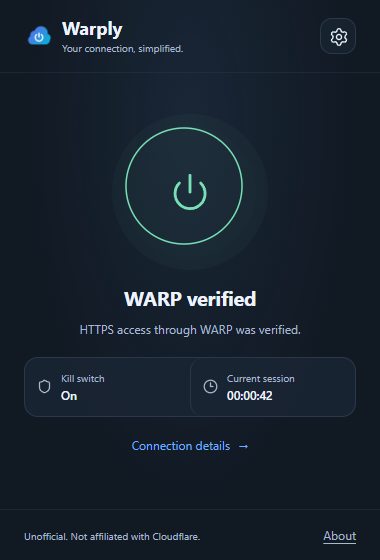
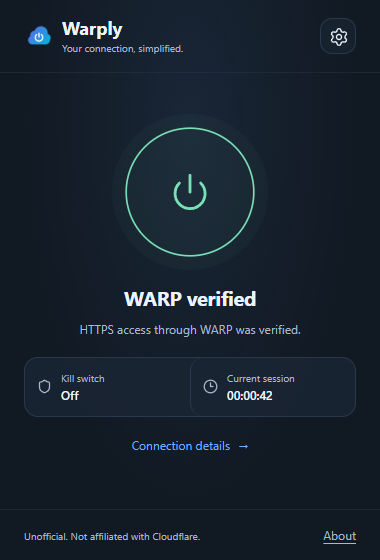
Release 0.3.1: center the power-button ring at every size

Changed region(s): [[0.3184, 0.2125, 0.6658, 0.4857], [0.6658, 0.3339, 0.6947, 0.3643], [0.1737, 0.6982, 0.2026, 0.7286]]

diff --git a/src/styles.css b/src/styles.css
@@ -360,8 +360,9 @@ svg {
 .power-ring {
   position: absolute;
   inset: 0;
-  width: 120px;
-  height: 120px;
+  width: 100%;
+  height: 100%;
+  pointer-events: none;
   fill: none;
   stroke: currentColor;
   stroke-width: 1.5;

diff --git a/docs/release-v0.3.1.md b/docs/release-v0.3.1.md
@@ -1,0 +1,17 @@
+# Warply v0.3.1 — centered power button
+
+Fixes the offset ring around the power button introduced in 0.3.0. The button was resized to 132px while its SVG stayed fixed at 120px. The ring now fills its parent and its center matches the button, icon and surrounding halo. It also follows future button-size changes. The decorative SVG does not intercept pointer events.
+
+The production frontend was built and linted. Browser geometry checks passed for disconnected, connected, unverified, connecting and error states at device scale factors 1, 1.25, 1.5 and 2, plus a resized-button check. This is a CSS hotfix; the Rust tunnel logic was not changed and the Rust unit suite was not repeated. Native Windows display-scaling and full installer execution still need manual acceptance testing.
+
+Install **Warply_0.3.1_x64-setup.exe** or check for updates in Settings. Accounts and encrypted profiles remain. Installation requires confirmation; the updater still verifies its Tauri signature and version. Warply itself has no Authenticode signature. No telemetry, backend, database or diagnostic uploads were added.
+
+## Manual check
+
+Connect/disconnect and watch the spinner while connecting. Confirm the ring, power icon, hover surface and outer halo remain concentric, including at Windows scaling of 125%, 150% and 200%. Check both themes and reduced motion. Confirm the button remains clickable and keyboard accessible.
+
+Release assets: installer, matching .sig, portable ZIP, latest.json, SHA256SUMS.txt, README.md, PRIVACY.md and TEST-CHECKLIST.md.
+
+Source: https://github.com/rookeudev/warply
+
+License: Warply Source-Available License; see LICENSE.
